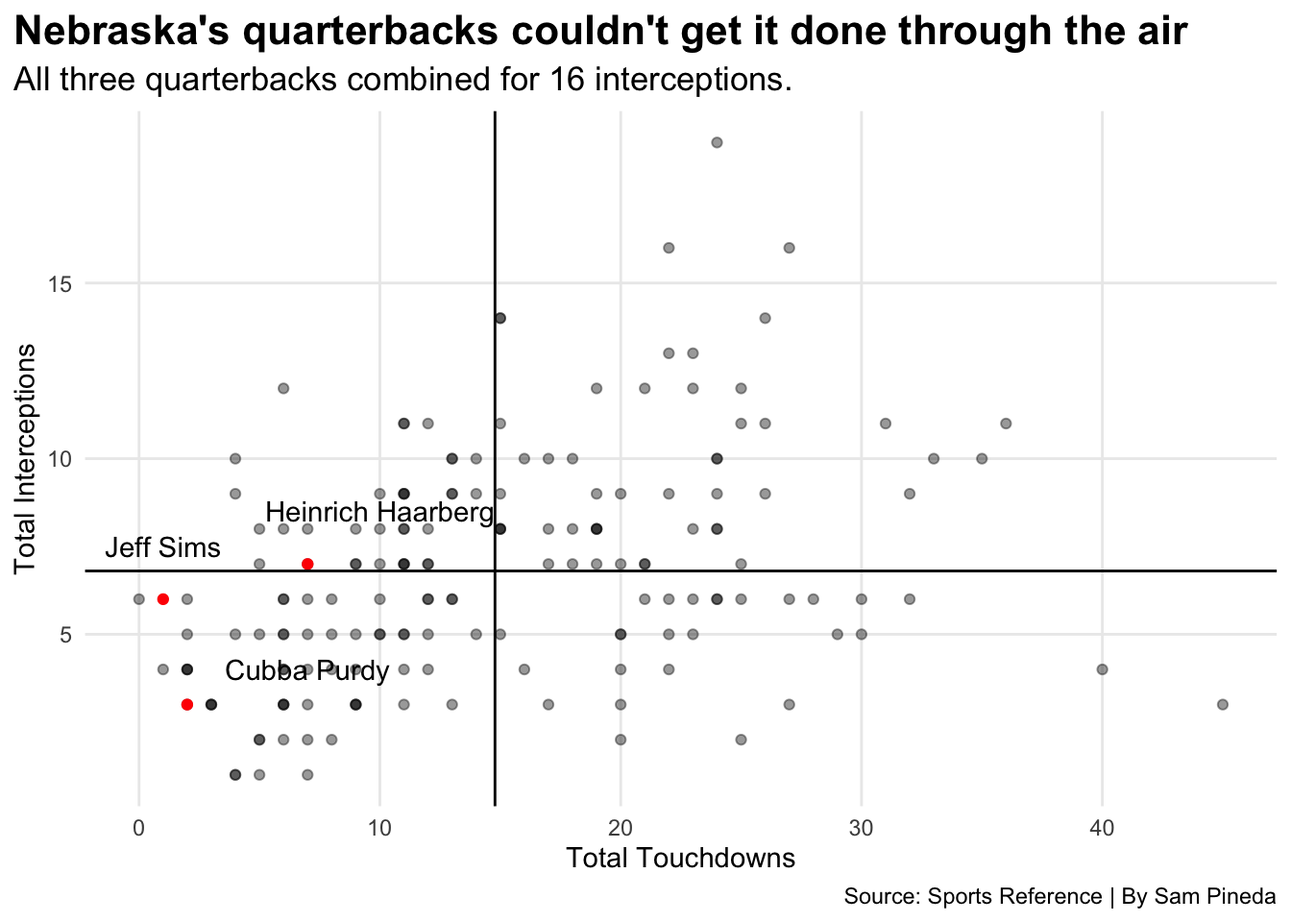
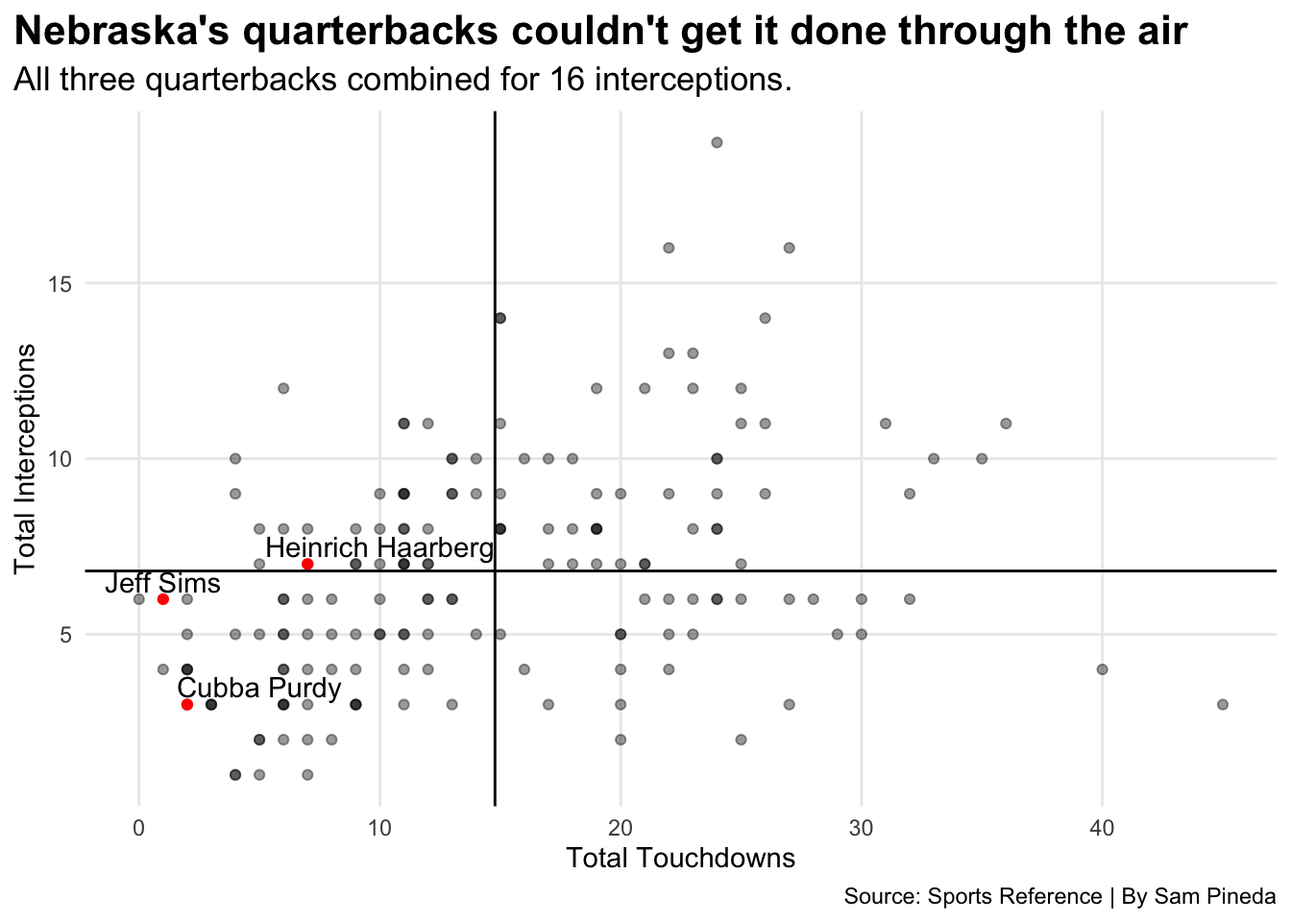
Added third chart.

Changed region(s): [[0.1875, 0.5312, 0.375, 0.625], [0.125, 0.7188, 0.3125, 0.7812], [0.0938, 0.5625, 0.1875, 0.6562]]

diff --git a/posts/nebraska-football-offense-2023/index.html b/posts/nebraska-football-offense-2023/index.html
@@ -200,43 +200,44 @@ pre > code.sourceCode > span > a:first-child::before { text-decoration: underlin
 <div class="sourceCode cell-code" id="cb1"><pre class="sourceCode r code-with-copy"><code class="sourceCode r"><span id="cb1-1"><a href="#cb1-1" aria-hidden="true" tabindex="-1"></a><span class="fu">library</span>(tidyverse)</span>
 <span id="cb1-2"><a href="#cb1-2" aria-hidden="true" tabindex="-1"></a><span class="fu">library</span>(ggrepel)</span>
 <span id="cb1-3"><a href="#cb1-3" aria-hidden="true" tabindex="-1"></a><span class="fu">library</span>(gt)</span>
-<span id="cb1-4"><a href="#cb1-4" aria-hidden="true" tabindex="-1"></a></span>
-<span id="cb1-5"><a href="#cb1-5" aria-hidden="true" tabindex="-1"></a><span class="co">#| message: false</span></span>
-<span id="cb1-6"><a href="#cb1-6" aria-hidden="true" tabindex="-1"></a>teamoff <span class="ot">&lt;-</span> <span class="fu">read_csv</span>(<span class="st">"teamoffense.csv"</span>)</span>
-<span id="cb1-7"><a href="#cb1-7" aria-hidden="true" tabindex="-1"></a></span>
-<span id="cb1-8"><a href="#cb1-8" aria-hidden="true" tabindex="-1"></a><span class="co">#| message: false</span></span>
-<span id="cb1-9"><a href="#cb1-9" aria-hidden="true" tabindex="-1"></a>nebraska <span class="ot">&lt;-</span> teamoff <span class="sc">|&gt;</span> <span class="fu">filter</span>(School <span class="sc">==</span> <span class="st">"Nebraska"</span>)</span>
-<span id="cb1-10"><a href="#cb1-10" aria-hidden="true" tabindex="-1"></a></span>
-<span id="cb1-11"><a href="#cb1-11" aria-hidden="true" tabindex="-1"></a><span class="fu">ggplot</span>() <span class="sc">+</span></span>
-<span id="cb1-12"><a href="#cb1-12" aria-hidden="true" tabindex="-1"></a>  <span class="fu">geom_point</span>(</span>
-<span id="cb1-13"><a href="#cb1-13" aria-hidden="true" tabindex="-1"></a>    <span class="at">data =</span> teamoff,</span>
-<span id="cb1-14"><a href="#cb1-14" aria-hidden="true" tabindex="-1"></a>    <span class="fu">aes</span>(<span class="at">x=</span>TotalYds, <span class="at">y=</span>Pts),</span>
-<span id="cb1-15"><a href="#cb1-15" aria-hidden="true" tabindex="-1"></a>    <span class="at">color=</span><span class="st">"black"</span>,</span>
-<span id="cb1-16"><a href="#cb1-16" aria-hidden="true" tabindex="-1"></a>    <span class="at">alpha=</span>.<span class="dv">4</span></span>
-<span id="cb1-17"><a href="#cb1-17" aria-hidden="true" tabindex="-1"></a>  ) <span class="sc">+</span></span>
-<span id="cb1-18"><a href="#cb1-18" aria-hidden="true" tabindex="-1"></a>  <span class="fu">geom_point</span>(</span>
-<span id="cb1-19"><a href="#cb1-19" aria-hidden="true" tabindex="-1"></a>    <span class="at">data =</span> nebraska,</span>
-<span id="cb1-20"><a href="#cb1-20" aria-hidden="true" tabindex="-1"></a>    <span class="fu">aes</span>(<span class="at">x=</span>TotalYds, <span class="at">y=</span>Pts),</span>
-<span id="cb1-21"><a href="#cb1-21" aria-hidden="true" tabindex="-1"></a>    <span class="at">color=</span><span class="st">"red"</span></span>
-<span id="cb1-22"><a href="#cb1-22" aria-hidden="true" tabindex="-1"></a>  ) <span class="sc">+</span></span>
-<span id="cb1-23"><a href="#cb1-23" aria-hidden="true" tabindex="-1"></a>  <span class="fu">geom_vline</span>(<span class="at">xintercept =</span> <span class="fl">384.2421</span>) <span class="sc">+</span></span>
-<span id="cb1-24"><a href="#cb1-24" aria-hidden="true" tabindex="-1"></a>  <span class="fu">geom_hline</span>(<span class="at">yintercept =</span> <span class="fl">27.56992</span>) <span class="sc">+</span></span>
-<span id="cb1-25"><a href="#cb1-25" aria-hidden="true" tabindex="-1"></a>  <span class="fu">geom_text</span>(<span class="fu">aes</span>(<span class="at">x=</span><span class="dv">325</span>, <span class="at">y=</span><span class="dv">16</span>, <span class="at">label=</span><span class="st">"Nebraska"</span>), <span class="at">color=</span><span class="st">"black"</span>) <span class="sc">+</span></span>
-<span id="cb1-26"><a href="#cb1-26" aria-hidden="true" tabindex="-1"></a>  <span class="fu">labs</span>(</span>
-<span id="cb1-27"><a href="#cb1-27" aria-hidden="true" tabindex="-1"></a>    <span class="at">x=</span><span class="st">"Average yards per game"</span>, </span>
-<span id="cb1-28"><a href="#cb1-28" aria-hidden="true" tabindex="-1"></a>    <span class="at">y=</span><span class="st">"Average points per game"</span>, </span>
-<span id="cb1-29"><a href="#cb1-29" aria-hidden="true" tabindex="-1"></a>    <span class="at">title=</span><span class="st">"Nebraska's offense was among the worst in college football"</span>, </span>
-<span id="cb1-30"><a href="#cb1-30" aria-hidden="true" tabindex="-1"></a>    <span class="at">subtitle=</span><span class="st">"The Huskers ranked 123rd in scoring offense."</span>, </span>
-<span id="cb1-31"><a href="#cb1-31" aria-hidden="true" tabindex="-1"></a>    <span class="at">caption=</span><span class="st">"Source: Sports Reference | By Sam Pineda"</span></span>
-<span id="cb1-32"><a href="#cb1-32" aria-hidden="true" tabindex="-1"></a>    ) <span class="sc">+</span></span>
-<span id="cb1-33"><a href="#cb1-33" aria-hidden="true" tabindex="-1"></a>  <span class="fu">theme_minimal</span>() <span class="sc">+</span></span>
-<span id="cb1-34"><a href="#cb1-34" aria-hidden="true" tabindex="-1"></a>  <span class="fu">theme</span>(</span>
-<span id="cb1-35"><a href="#cb1-35" aria-hidden="true" tabindex="-1"></a>    <span class="at">plot.title =</span> <span class="fu">element_text</span>(<span class="at">size =</span> <span class="dv">16</span>, <span class="at">face =</span> <span class="st">"bold"</span>),</span>
-<span id="cb1-36"><a href="#cb1-36" aria-hidden="true" tabindex="-1"></a>    <span class="at">axis.title =</span> <span class="fu">element_text</span>(<span class="at">size =</span> <span class="dv">11</span>), </span>
-<span id="cb1-37"><a href="#cb1-37" aria-hidden="true" tabindex="-1"></a>    <span class="at">plot.subtitle =</span> <span class="fu">element_text</span>(<span class="at">size=</span><span class="dv">13</span>), </span>
-<span id="cb1-38"><a href="#cb1-38" aria-hidden="true" tabindex="-1"></a>    <span class="at">panel.grid.minor =</span> <span class="fu">element_blank</span>(),</span>
-<span id="cb1-39"><a href="#cb1-39" aria-hidden="true" tabindex="-1"></a>    <span class="at">plot.title.position =</span> <span class="st">"plot"</span></span>
-<span id="cb1-40"><a href="#cb1-40" aria-hidden="true" tabindex="-1"></a>    )</span></code><button title="Copy to Clipboard" class="code-copy-button"><i class="bi"></i></button></pre></div>
+<span id="cb1-4"><a href="#cb1-4" aria-hidden="true" tabindex="-1"></a><span class="fu">library</span>(patchwork)</span>
+<span id="cb1-5"><a href="#cb1-5" aria-hidden="true" tabindex="-1"></a></span>
+<span id="cb1-6"><a href="#cb1-6" aria-hidden="true" tabindex="-1"></a><span class="co">#| message: false</span></span>
+<span id="cb1-7"><a href="#cb1-7" aria-hidden="true" tabindex="-1"></a>teamoff <span class="ot">&lt;-</span> <span class="fu">read_csv</span>(<span class="st">"teamoffense.csv"</span>)</span>
+<span id="cb1-8"><a href="#cb1-8" aria-hidden="true" tabindex="-1"></a></span>
+<span id="cb1-9"><a href="#cb1-9" aria-hidden="true" tabindex="-1"></a><span class="co">#| message: false</span></span>
+<span id="cb1-10"><a href="#cb1-10" aria-hidden="true" tabindex="-1"></a>nebraska <span class="ot">&lt;-</span> teamoff <span class="sc">|&gt;</span> <span class="fu">filter</span>(School <span class="sc">==</span> <span class="st">"Nebraska"</span>)</span>
+<span id="cb1-11"><a href="#cb1-11" aria-hidden="true" tabindex="-1"></a></span>
+<span id="cb1-12"><a href="#cb1-12" aria-hidden="true" tabindex="-1"></a><span class="fu">ggplot</span>() <span class="sc">+</span></span>
+<span id="cb1-13"><a href="#cb1-13" aria-hidden="true" tabindex="-1"></a>  <span class="fu">geom_point</span>(</span>
+<span id="cb1-14"><a href="#cb1-14" aria-hidden="true" tabindex="-1"></a>    <span class="at">data =</span> teamoff,</span>
+<span id="cb1-15"><a href="#cb1-15" aria-hidden="true" tabindex="-1"></a>    <span class="fu">aes</span>(<span class="at">x=</span>TotalYds, <span class="at">y=</span>Pts),</span>
+<span id="cb1-16"><a href="#cb1-16" aria-hidden="true" tabindex="-1"></a>    <span class="at">color=</span><span class="st">"black"</span>,</span>
+<span id="cb1-17"><a href="#cb1-17" aria-hidden="true" tabindex="-1"></a>    <span class="at">alpha=</span>.<span class="dv">4</span></span>
+<span id="cb1-18"><a href="#cb1-18" aria-hidden="true" tabindex="-1"></a>  ) <span class="sc">+</span></span>
+<span id="cb1-19"><a href="#cb1-19" aria-hidden="true" tabindex="-1"></a>  <span class="fu">geom_point</span>(</span>
+<span id="cb1-20"><a href="#cb1-20" aria-hidden="true" tabindex="-1"></a>    <span class="at">data =</span> nebraska,</span>
+<span id="cb1-21"><a href="#cb1-21" aria-hidden="true" tabindex="-1"></a>    <span class="fu">aes</span>(<span class="at">x=</span>TotalYds, <span class="at">y=</span>Pts),</span>
+<span id="cb1-22"><a href="#cb1-22" aria-hidden="true" tabindex="-1"></a>    <span class="at">color=</span><span class="st">"red"</span></span>
+<span id="cb1-23"><a href="#cb1-23" aria-hidden="true" tabindex="-1"></a>  ) <span class="sc">+</span></span>
+<span id="cb1-24"><a href="#cb1-24" aria-hidden="true" tabindex="-1"></a>  <span class="fu">geom_vline</span>(<span class="at">xintercept =</span> <span class="fl">384.2421</span>) <span class="sc">+</span></span>
+<span id="cb1-25"><a href="#cb1-25" aria-hidden="true" tabindex="-1"></a>  <span class="fu">geom_hline</span>(<span class="at">yintercept =</span> <span class="fl">27.56992</span>) <span class="sc">+</span></span>
+<span id="cb1-26"><a href="#cb1-26" aria-hidden="true" tabindex="-1"></a>  <span class="fu">geom_text</span>(<span class="fu">aes</span>(<span class="at">x=</span><span class="dv">325</span>, <span class="at">y=</span><span class="dv">16</span>, <span class="at">label=</span><span class="st">"Nebraska"</span>), <span class="at">color=</span><span class="st">"black"</span>) <span class="sc">+</span></span>
+<span id="cb1-27"><a href="#cb1-27" aria-hidden="true" tabindex="-1"></a>  <span class="fu">labs</span>(</span>
+<span id="cb1-28"><a href="#cb1-28" aria-hidden="true" tabindex="-1"></a>    <span class="at">x=</span><span class="st">"Average yards per game"</span>, </span>
+<span id="cb1-29"><a href="#cb1-29" aria-hidden="true" tabindex="-1"></a>    <span class="at">y=</span><span class="st">"Average points per game"</span>, </span>
+<span id="cb1-30"><a href="#cb1-30" aria-hidden="true" tabindex="-1"></a>    <span class="at">title=</span><span class="st">"Nebraska's offense was among the worst in college football"</span>, </span>
+<span id="cb1-31"><a href="#cb1-31" aria-hidden="true" tabindex="-1"></a>    <span class="at">subtitle=</span><span class="st">"The Huskers ranked 123rd in scoring offense."</span>, </span>
+<span id="cb1-32"><a href="#cb1-32" aria-hidden="true" tabindex="-1"></a>    <span class="at">caption=</span><span class="st">"Source: Sports Reference | By Sam Pineda"</span></span>
+<span id="cb1-33"><a href="#cb1-33" aria-hidden="true" tabindex="-1"></a>    ) <span class="sc">+</span></span>
+<span id="cb1-34"><a href="#cb1-34" aria-hidden="true" tabindex="-1"></a>  <span class="fu">theme_minimal</span>() <span class="sc">+</span></span>
+<span id="cb1-35"><a href="#cb1-35" aria-hidden="true" tabindex="-1"></a>  <span class="fu">theme</span>(</span>
+<span id="cb1-36"><a href="#cb1-36" aria-hidden="true" tabindex="-1"></a>    <span class="at">plot.title =</span> <span class="fu">element_text</span>(<span class="at">size =</span> <span class="dv">16</span>, <span class="at">face =</span> <span class="st">"bold"</span>),</span>
+<span id="cb1-37"><a href="#cb1-37" aria-hidden="true" tabindex="-1"></a>    <span class="at">axis.title =</span> <span class="fu">element_text</span>(<span class="at">size =</span> <span class="dv">11</span>), </span>
+<span id="cb1-38"><a href="#cb1-38" aria-hidden="true" tabindex="-1"></a>    <span class="at">plot.subtitle =</span> <span class="fu">element_text</span>(<span class="at">size=</span><span class="dv">13</span>), </span>
+<span id="cb1-39"><a href="#cb1-39" aria-hidden="true" tabindex="-1"></a>    <span class="at">panel.grid.minor =</span> <span class="fu">element_blank</span>(),</span>
+<span id="cb1-40"><a href="#cb1-40" aria-hidden="true" tabindex="-1"></a>    <span class="at">plot.title.position =</span> <span class="st">"plot"</span></span>
+<span id="cb1-41"><a href="#cb1-41" aria-hidden="true" tabindex="-1"></a>    )</span></code><button title="Copy to Clipboard" class="code-copy-button"><i class="bi"></i></button></pre></div>
 </details>
 <div class="cell-output-display">
 <div>
@@ -272,9 +273,9 @@ pre > code.sourceCode > span > a:first-child::before { text-decoration: underlin
 <span id="cb2-18"><a href="#cb2-18" aria-hidden="true" tabindex="-1"></a>  ) <span class="sc">+</span></span>
 <span id="cb2-19"><a href="#cb2-19" aria-hidden="true" tabindex="-1"></a>  <span class="fu">geom_vline</span>(<span class="at">xintercept =</span> <span class="fl">14.77976</span>) <span class="sc">+</span></span>
 <span id="cb2-20"><a href="#cb2-20" aria-hidden="true" tabindex="-1"></a>  <span class="fu">geom_hline</span>(<span class="at">yintercept =</span> <span class="fl">6.803571</span>) <span class="sc">+</span></span>
-<span id="cb2-21"><a href="#cb2-21" aria-hidden="true" tabindex="-1"></a>  <span class="fu">geom_text</span>(<span class="fu">aes</span>(<span class="at">x=</span><span class="dv">1</span>, <span class="at">y=</span><span class="fl">7.5</span>, <span class="at">label=</span><span class="st">"Jeff Sims"</span>), <span class="at">color=</span><span class="st">"black"</span>) <span class="sc">+</span></span>
-<span id="cb2-22"><a href="#cb2-22" aria-hidden="true" tabindex="-1"></a>  <span class="fu">geom_text</span>(<span class="fu">aes</span>(<span class="at">x=</span><span class="dv">10</span>, <span class="at">y=</span><span class="fl">8.5</span>, <span class="at">label=</span><span class="st">"Heinrich Haarberg"</span>), <span class="at">color=</span><span class="st">"black"</span>) <span class="sc">+</span></span>
-<span id="cb2-23"><a href="#cb2-23" aria-hidden="true" tabindex="-1"></a>  <span class="fu">geom_text</span>(<span class="fu">aes</span>(<span class="at">x=</span><span class="dv">7</span>, <span class="at">y=</span><span class="dv">4</span>, <span class="at">label=</span><span class="st">"Cubba Purdy"</span>), <span class="at">color=</span><span class="st">"black"</span>) <span class="sc">+</span></span>
+<span id="cb2-21"><a href="#cb2-21" aria-hidden="true" tabindex="-1"></a>  <span class="fu">geom_text</span>(<span class="fu">aes</span>(<span class="at">x=</span><span class="dv">1</span>, <span class="at">y=</span><span class="fl">6.5</span>, <span class="at">label=</span><span class="st">"Jeff Sims"</span>), <span class="at">color=</span><span class="st">"black"</span>) <span class="sc">+</span></span>
+<span id="cb2-22"><a href="#cb2-22" aria-hidden="true" tabindex="-1"></a>  <span class="fu">geom_text</span>(<span class="fu">aes</span>(<span class="at">x=</span><span class="dv">10</span>, <span class="at">y=</span><span class="fl">7.5</span>, <span class="at">label=</span><span class="st">"Heinrich Haarberg"</span>), <span class="at">color=</span><span class="st">"black"</span>) <span class="sc">+</span></span>
+<span id="cb2-23"><a href="#cb2-23" aria-hidden="true" tabindex="-1"></a>  <span class="fu">geom_text</span>(<span class="fu">aes</span>(<span class="at">x=</span><span class="dv">5</span>, <span class="at">y=</span><span class="fl">3.5</span>, <span class="at">label=</span><span class="st">"Cubba Purdy"</span>), <span class="at">color=</span><span class="st">"black"</span>) <span class="sc">+</span></span>
 <span id="cb2-24"><a href="#cb2-24" aria-hidden="true" tabindex="-1"></a>  <span class="fu">labs</span>(</span>
 <span id="cb2-25"><a href="#cb2-25" aria-hidden="true" tabindex="-1"></a>    <span class="at">x=</span><span class="st">"Total Touchdowns"</span>, </span>
 <span id="cb2-26"><a href="#cb2-26" aria-hidden="true" tabindex="-1"></a>    <span class="at">y=</span><span class="st">"Total Interceptions"</span>, </span>
@@ -295,6 +296,85 @@ pre > code.sourceCode > span > a:first-child::before { text-decoration: underlin
 <div>
 <figure class="figure">
 <p><img src="index_files/figure-html/unnamed-chunk-2-1.png" class="img-fluid figure-img" width="672"></p>
+</figure>
+</div>
+</div>
+</div>
+<p>Entering the season, the Huskers had one of the more experienced running back rooms in the Big Ten. Anthony Grant returned for his senior season after a breakout year in 2022, while veterans Rahmir Johnson and Gabe Ervin Jr.&nbsp;were both back and healthy after a string of injuries.</p>
+<p>However, after Johnson and Ervin Jr.&nbsp;both suffered season-ending injuries early in the year, Anthony Grant and redshirt freshman Emmett Johnson were would carry the workload in the backfield for the year. Heinrich Haarberg would also provide a consistent run threat, leading the team in rushing yards for the season.</p>
+<p>How did Nebraska’s season rushing totals rack up against the Big Ten?</p>
+<div class="cell">
+<details class="code-fold">
+<summary>Code</summary>
+<div class="sourceCode cell-code" id="cb3"><pre class="sourceCode r code-with-copy"><code class="sourceCode r"><span id="cb3-1"><a href="#cb3-1" aria-hidden="true" tabindex="-1"></a>teamrushing <span class="ot">&lt;-</span> <span class="fu">read_csv</span>(<span class="st">"teamrushing.csv"</span>)</span>
+<span id="cb3-2"><a href="#cb3-2" aria-hidden="true" tabindex="-1"></a></span>
+<span id="cb3-3"><a href="#cb3-3" aria-hidden="true" tabindex="-1"></a>nebraskarb <span class="ot">&lt;-</span> teamrushing <span class="sc">|&gt;</span> <span class="fu">filter</span>(School <span class="sc">==</span> <span class="st">"Nebraska"</span>)</span>
+<span id="cb3-4"><a href="#cb3-4" aria-hidden="true" tabindex="-1"></a></span>
+<span id="cb3-5"><a href="#cb3-5" aria-hidden="true" tabindex="-1"></a>bar1 <span class="ot">&lt;-</span> <span class="fu">ggplot</span>() <span class="sc">+</span></span>
+<span id="cb3-6"><a href="#cb3-6" aria-hidden="true" tabindex="-1"></a>  <span class="fu">geom_bar</span>(<span class="at">data=</span>teamrushing, <span class="fu">aes</span>(<span class="at">x=</span><span class="fu">reorder</span>(School, Yards), <span class="at">weight=</span>Yards), <span class="at">fill=</span><span class="st">"grey"</span>) <span class="sc">+</span></span>
+<span id="cb3-7"><a href="#cb3-7" aria-hidden="true" tabindex="-1"></a>  <span class="fu">geom_bar</span>(<span class="at">data=</span>nebraskarb, <span class="fu">aes</span>(<span class="at">x=</span><span class="fu">reorder</span>(School, Yards), <span class="at">weight=</span>Yards), <span class="at">fill=</span><span class="st">"red"</span>) <span class="sc">+</span></span>
+<span id="cb3-8"><a href="#cb3-8" aria-hidden="true" tabindex="-1"></a>  <span class="fu">coord_flip</span>() <span class="sc">+</span></span>
+<span id="cb3-9"><a href="#cb3-9" aria-hidden="true" tabindex="-1"></a>  <span class="fu">labs</span>(  </span>
+<span id="cb3-10"><a href="#cb3-10" aria-hidden="true" tabindex="-1"></a>       <span class="at">x=</span><span class="st">""</span>, <span class="at">y=</span><span class="st">"Total rushing yards"</span>, </span>
+<span id="cb3-11"><a href="#cb3-11" aria-hidden="true" tabindex="-1"></a>       ) <span class="sc">+</span> </span>
+<span id="cb3-12"><a href="#cb3-12" aria-hidden="true" tabindex="-1"></a>  <span class="fu">theme_minimal</span>() <span class="sc">+</span> </span>
+<span id="cb3-13"><a href="#cb3-13" aria-hidden="true" tabindex="-1"></a>  <span class="fu">theme</span>(</span>
+<span id="cb3-14"><a href="#cb3-14" aria-hidden="true" tabindex="-1"></a>    <span class="at">plot.title =</span> <span class="fu">element_text</span>(<span class="at">size =</span> <span class="dv">16</span>, <span class="at">face =</span> <span class="st">"bold"</span>),</span>
+<span id="cb3-15"><a href="#cb3-15" aria-hidden="true" tabindex="-1"></a>    <span class="at">axis.title =</span> <span class="fu">element_text</span>(<span class="at">size =</span> <span class="dv">8</span>), </span>
+<span id="cb3-16"><a href="#cb3-16" aria-hidden="true" tabindex="-1"></a>    <span class="at">plot.subtitle =</span> <span class="fu">element_text</span>(<span class="at">size=</span><span class="dv">10</span>), </span>
+<span id="cb3-17"><a href="#cb3-17" aria-hidden="true" tabindex="-1"></a>    <span class="at">panel.grid.minor =</span> <span class="fu">element_blank</span>(),</span>
+<span id="cb3-18"><a href="#cb3-18" aria-hidden="true" tabindex="-1"></a>    <span class="at">plot.title.position =</span> <span class="st">"plot"</span></span>
+<span id="cb3-19"><a href="#cb3-19" aria-hidden="true" tabindex="-1"></a>    )</span>
+<span id="cb3-20"><a href="#cb3-20" aria-hidden="true" tabindex="-1"></a></span>
+<span id="cb3-21"><a href="#cb3-21" aria-hidden="true" tabindex="-1"></a>bar2 <span class="ot">&lt;-</span> <span class="fu">ggplot</span>() <span class="sc">+</span></span>
+<span id="cb3-22"><a href="#cb3-22" aria-hidden="true" tabindex="-1"></a>  <span class="fu">geom_bar</span>(<span class="at">data =</span> teamrushing, <span class="fu">aes</span>(<span class="fu">reorder</span>(School, Yards<span class="sc">/</span>G), <span class="at">weight =</span> Yards<span class="sc">/</span>G), <span class="at">fill=</span><span class="st">"grey"</span>) <span class="sc">+</span></span>
+<span id="cb3-23"><a href="#cb3-23" aria-hidden="true" tabindex="-1"></a>  <span class="fu">geom_bar</span>(<span class="at">data =</span> nebraskarb, <span class="fu">aes</span>(<span class="at">x=</span><span class="fu">reorder</span>(School, Yards<span class="sc">/</span>G), <span class="at">weight=</span>Yards<span class="sc">/</span>G), <span class="at">fill=</span><span class="st">"red"</span>) <span class="sc">+</span></span>
+<span id="cb3-24"><a href="#cb3-24" aria-hidden="true" tabindex="-1"></a>  <span class="fu">coord_flip</span>() <span class="sc">+</span></span>
+<span id="cb3-25"><a href="#cb3-25" aria-hidden="true" tabindex="-1"></a>  <span class="fu">labs</span>(  </span>
+<span id="cb3-26"><a href="#cb3-26" aria-hidden="true" tabindex="-1"></a>       <span class="at">x=</span><span class="st">""</span>, <span class="at">y=</span><span class="st">"Average yards/game"</span>, </span>
+<span id="cb3-27"><a href="#cb3-27" aria-hidden="true" tabindex="-1"></a>       ) <span class="sc">+</span> </span>
+<span id="cb3-28"><a href="#cb3-28" aria-hidden="true" tabindex="-1"></a>  <span class="fu">theme_minimal</span>() <span class="sc">+</span> </span>
+<span id="cb3-29"><a href="#cb3-29" aria-hidden="true" tabindex="-1"></a>  <span class="fu">theme</span>(</span>
+<span id="cb3-30"><a href="#cb3-30" aria-hidden="true" tabindex="-1"></a>    <span class="at">plot.title =</span> <span class="fu">element_text</span>(<span class="at">size =</span> <span class="dv">16</span>, <span class="at">face =</span> <span class="st">"bold"</span>),</span>
+<span id="cb3-31"><a href="#cb3-31" aria-hidden="true" tabindex="-1"></a>    <span class="at">axis.title =</span> <span class="fu">element_text</span>(<span class="at">size =</span> <span class="dv">8</span>), </span>
+<span id="cb3-32"><a href="#cb3-32" aria-hidden="true" tabindex="-1"></a>    <span class="at">plot.subtitle =</span> <span class="fu">element_text</span>(<span class="at">size=</span><span class="dv">10</span>), </span>
+<span id="cb3-33"><a href="#cb3-33" aria-hidden="true" tabindex="-1"></a>    <span class="at">panel.grid.minor =</span> <span class="fu">element_blank</span>(),</span>
+<span id="cb3-34"><a href="#cb3-34" aria-hidden="true" tabindex="-1"></a>    <span class="at">plot.title.position =</span> <span class="st">"plot"</span></span>
+<span id="cb3-35"><a href="#cb3-35" aria-hidden="true" tabindex="-1"></a>    )</span>
+<span id="cb3-36"><a href="#cb3-36" aria-hidden="true" tabindex="-1"></a></span>
+<span id="cb3-37"><a href="#cb3-37" aria-hidden="true" tabindex="-1"></a>bar3 <span class="ot">&lt;-</span> <span class="fu">ggplot</span>() <span class="sc">+</span></span>
+<span id="cb3-38"><a href="#cb3-38" aria-hidden="true" tabindex="-1"></a>  <span class="fu">geom_bar</span>(<span class="at">data =</span> teamrushing, <span class="fu">aes</span>(<span class="fu">reorder</span>(School, TD), <span class="at">weight =</span> TD), <span class="at">fill=</span><span class="st">"grey"</span>) <span class="sc">+</span></span>
+<span id="cb3-39"><a href="#cb3-39" aria-hidden="true" tabindex="-1"></a>  <span class="fu">geom_bar</span>(<span class="at">data =</span> nebraskarb, <span class="fu">aes</span>(<span class="at">x=</span><span class="fu">reorder</span>(School, TD), <span class="at">weight=</span>TD), <span class="at">fill=</span><span class="st">"red"</span>) <span class="sc">+</span></span>
+<span id="cb3-40"><a href="#cb3-40" aria-hidden="true" tabindex="-1"></a>  <span class="fu">coord_flip</span>() <span class="sc">+</span></span>
+<span id="cb3-41"><a href="#cb3-41" aria-hidden="true" tabindex="-1"></a>  <span class="fu">labs</span>(  </span>
+<span id="cb3-42"><a href="#cb3-42" aria-hidden="true" tabindex="-1"></a>       <span class="at">x=</span><span class="st">""</span>, <span class="at">y=</span><span class="st">"Total rushing touchdowns"</span>, </span>
+<span id="cb3-43"><a href="#cb3-43" aria-hidden="true" tabindex="-1"></a>       ) <span class="sc">+</span> </span>
+<span id="cb3-44"><a href="#cb3-44" aria-hidden="true" tabindex="-1"></a>  <span class="fu">theme_minimal</span>() <span class="sc">+</span> </span>
+<span id="cb3-45"><a href="#cb3-45" aria-hidden="true" tabindex="-1"></a>  <span class="fu">theme</span>(</span>
+<span id="cb3-46"><a href="#cb3-46" aria-hidden="true" tabindex="-1"></a>    <span class="at">plot.title =</span> <span class="fu">element_text</span>(<span class="at">size =</span> <span class="dv">16</span>, <span class="at">face =</span> <span class="st">"bold"</span>),</span>
+<span id="cb3-47"><a href="#cb3-47" aria-hidden="true" tabindex="-1"></a>    <span class="at">axis.title =</span> <span class="fu">element_text</span>(<span class="at">size =</span> <span class="dv">8</span>), </span>
+<span id="cb3-48"><a href="#cb3-48" aria-hidden="true" tabindex="-1"></a>    <span class="at">plot.subtitle =</span> <span class="fu">element_text</span>(<span class="at">size=</span><span class="dv">10</span>), </span>
+<span id="cb3-49"><a href="#cb3-49" aria-hidden="true" tabindex="-1"></a>    <span class="at">panel.grid.minor =</span> <span class="fu">element_blank</span>(),</span>
+<span id="cb3-50"><a href="#cb3-50" aria-hidden="true" tabindex="-1"></a>    <span class="at">plot.title.position =</span> <span class="st">"plot"</span></span>
+<span id="cb3-51"><a href="#cb3-51" aria-hidden="true" tabindex="-1"></a>    )</span>
+<span id="cb3-52"><a href="#cb3-52" aria-hidden="true" tabindex="-1"></a></span>
+<span id="cb3-53"><a href="#cb3-53" aria-hidden="true" tabindex="-1"></a>bar1 <span class="sc">+</span> bar2 <span class="sc">+</span> bar3 <span class="sc">+</span></span>
+<span id="cb3-54"><a href="#cb3-54" aria-hidden="true" tabindex="-1"></a>  <span class="fu">plot_annotation</span>(</span>
+<span id="cb3-55"><a href="#cb3-55" aria-hidden="true" tabindex="-1"></a>    <span class="at">title =</span> <span class="st">"Nebraska looked good on the ground"</span>,</span>
+<span id="cb3-56"><a href="#cb3-56" aria-hidden="true" tabindex="-1"></a>    <span class="at">subtitle =</span> <span class="st">"The Huskers ranked among the top in total yards and yards per game."</span>,</span>
+<span id="cb3-57"><a href="#cb3-57" aria-hidden="true" tabindex="-1"></a>    <span class="at">caption =</span> <span class="st">"Source: cfbstats.com | By Sam Pineda"</span></span>
+<span id="cb3-58"><a href="#cb3-58" aria-hidden="true" tabindex="-1"></a>  ) <span class="sc">&amp;</span></span>
+<span id="cb3-59"><a href="#cb3-59" aria-hidden="true" tabindex="-1"></a>  <span class="fu">theme</span>(</span>
+<span id="cb3-60"><a href="#cb3-60" aria-hidden="true" tabindex="-1"></a>    <span class="at">plot.title =</span> <span class="fu">element_text</span>(<span class="at">size =</span> <span class="dv">16</span>, <span class="at">face =</span> <span class="st">"bold"</span>),</span>
+<span id="cb3-61"><a href="#cb3-61" aria-hidden="true" tabindex="-1"></a>    <span class="at">axis.title =</span> <span class="fu">element_text</span>(<span class="at">size =</span> <span class="dv">8</span>), </span>
+<span id="cb3-62"><a href="#cb3-62" aria-hidden="true" tabindex="-1"></a>    <span class="at">plot.subtitle =</span> <span class="fu">element_text</span>(<span class="at">size=</span><span class="dv">10</span>), </span>
+<span id="cb3-63"><a href="#cb3-63" aria-hidden="true" tabindex="-1"></a>    <span class="at">panel.grid.minor =</span> <span class="fu">element_blank</span>()</span>
+<span id="cb3-64"><a href="#cb3-64" aria-hidden="true" tabindex="-1"></a>  )</span></code><button title="Copy to Clipboard" class="code-copy-button"><i class="bi"></i></button></pre></div>
+</details>
+<div class="cell-output-display">
+<div>
+<figure class="figure">
+<p><img src="index_files/figure-html/unnamed-chunk-3-1.png" class="img-fluid figure-img" width="672"></p>
 </figure>
 </div>
 </div>

diff --git a/index.html b/index.html
@@ -205,7 +205,7 @@ window.Quarto = {
 
 <div class="quarto-listing quarto-listing-container-default" id="listing-listing">
 <div class="list quarto-listing-default">
-<div class="quarto-post image-right" data-index="0" data-categories="bmNhYSxmb290YmFsbCxuZWJyYXNrYQ==" data-listing-date-sort="1730786400000" data-listing-file-modified-sort="1731789039706" data-listing-date-modified-sort="NaN" data-listing-reading-time-sort="3" data-listing-word-count-sort="567">
+<div class="quarto-post image-right" data-index="0" data-categories="bmNhYSxmb290YmFsbCxuZWJyYXNrYQ==" data-listing-date-sort="1730786400000" data-listing-file-modified-sort="1731807772227" data-listing-date-modified-sort="NaN" data-listing-reading-time-sort="6" data-listing-word-count-sort="1063">
 <div class="thumbnail">
 <p><a href="./posts/nebraska-football-offense-2023/index.html" class="no-external"></a></p><a href="./posts/nebraska-football-offense-2023/index.html" class="no-external">
 <p class="card-img-top"><img src="posts/nebraska-football-offense-2023/index_files/figure-html/unnamed-chunk-1-1.png"  class="thumbnail-image card-img"/></p>
